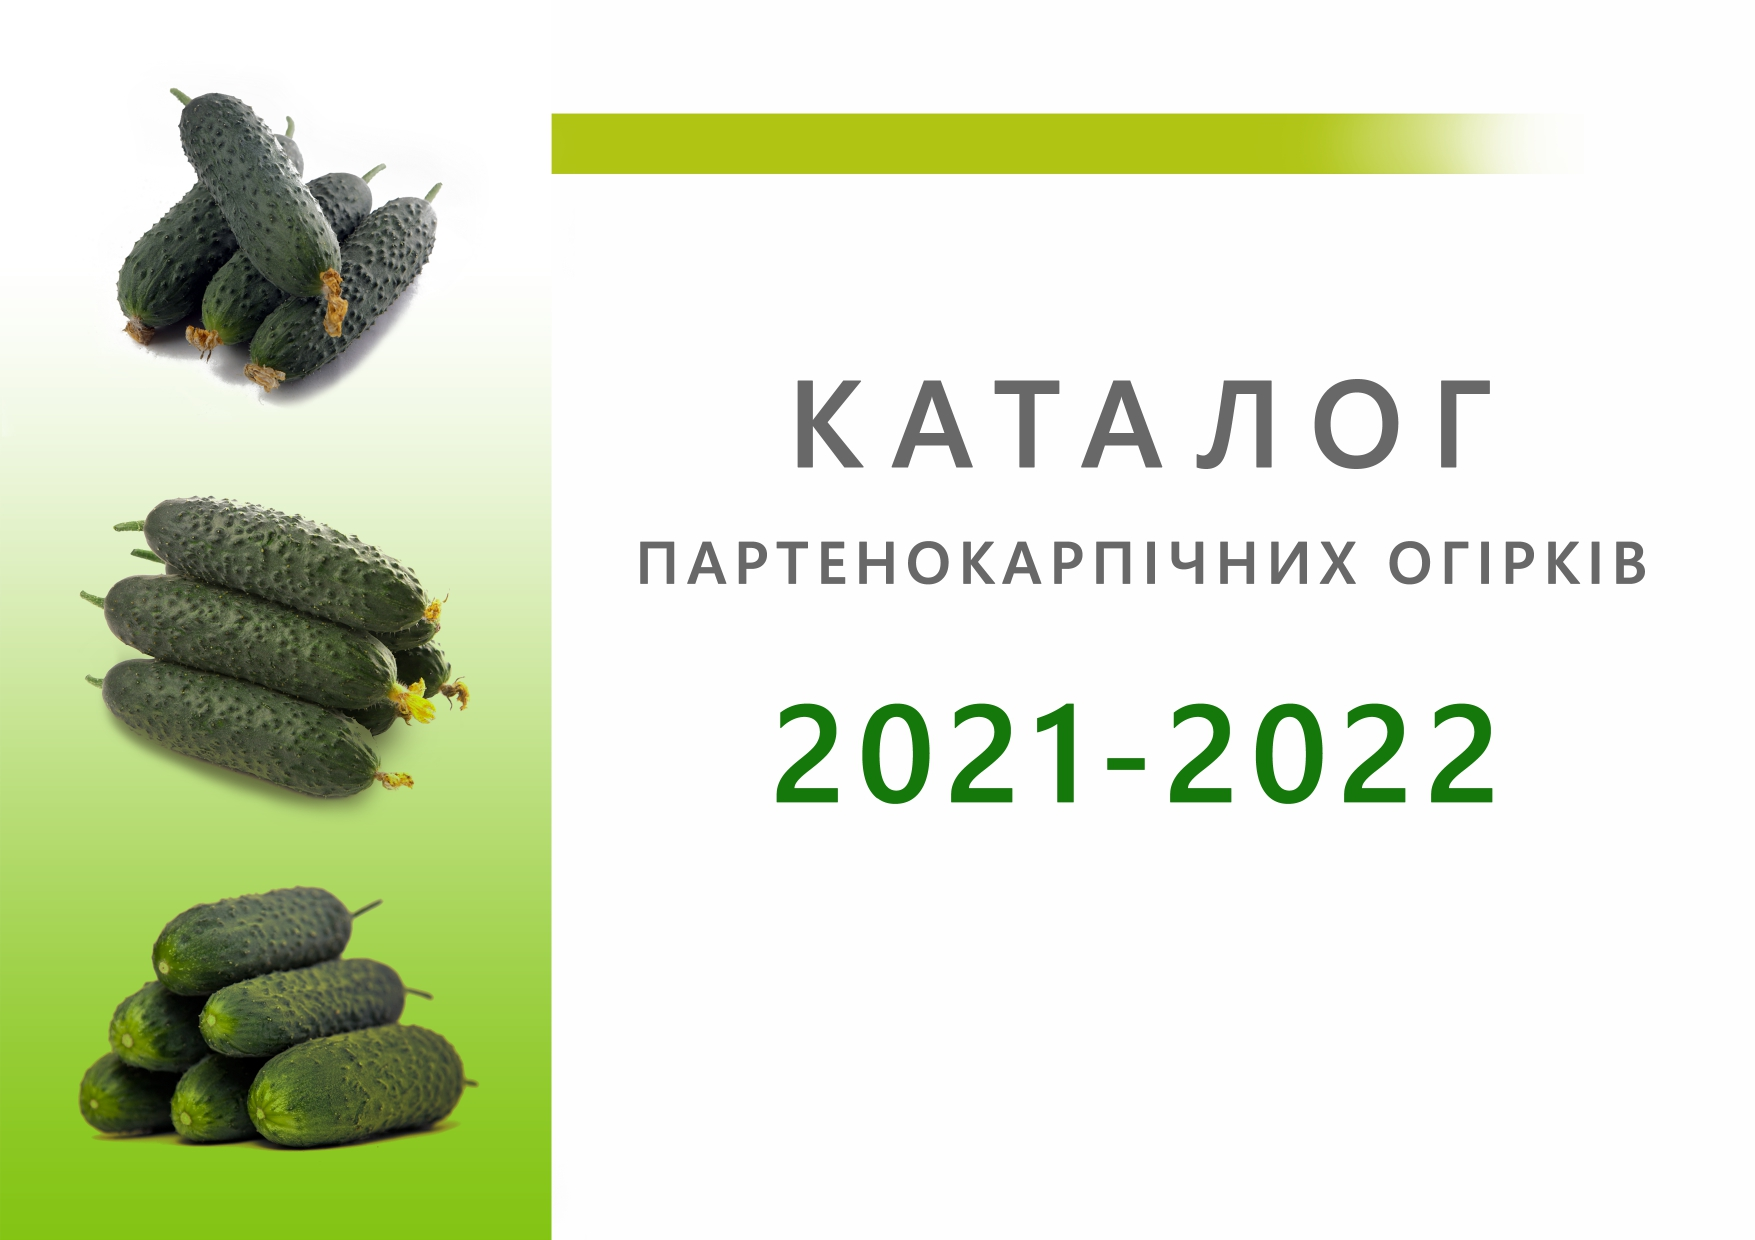
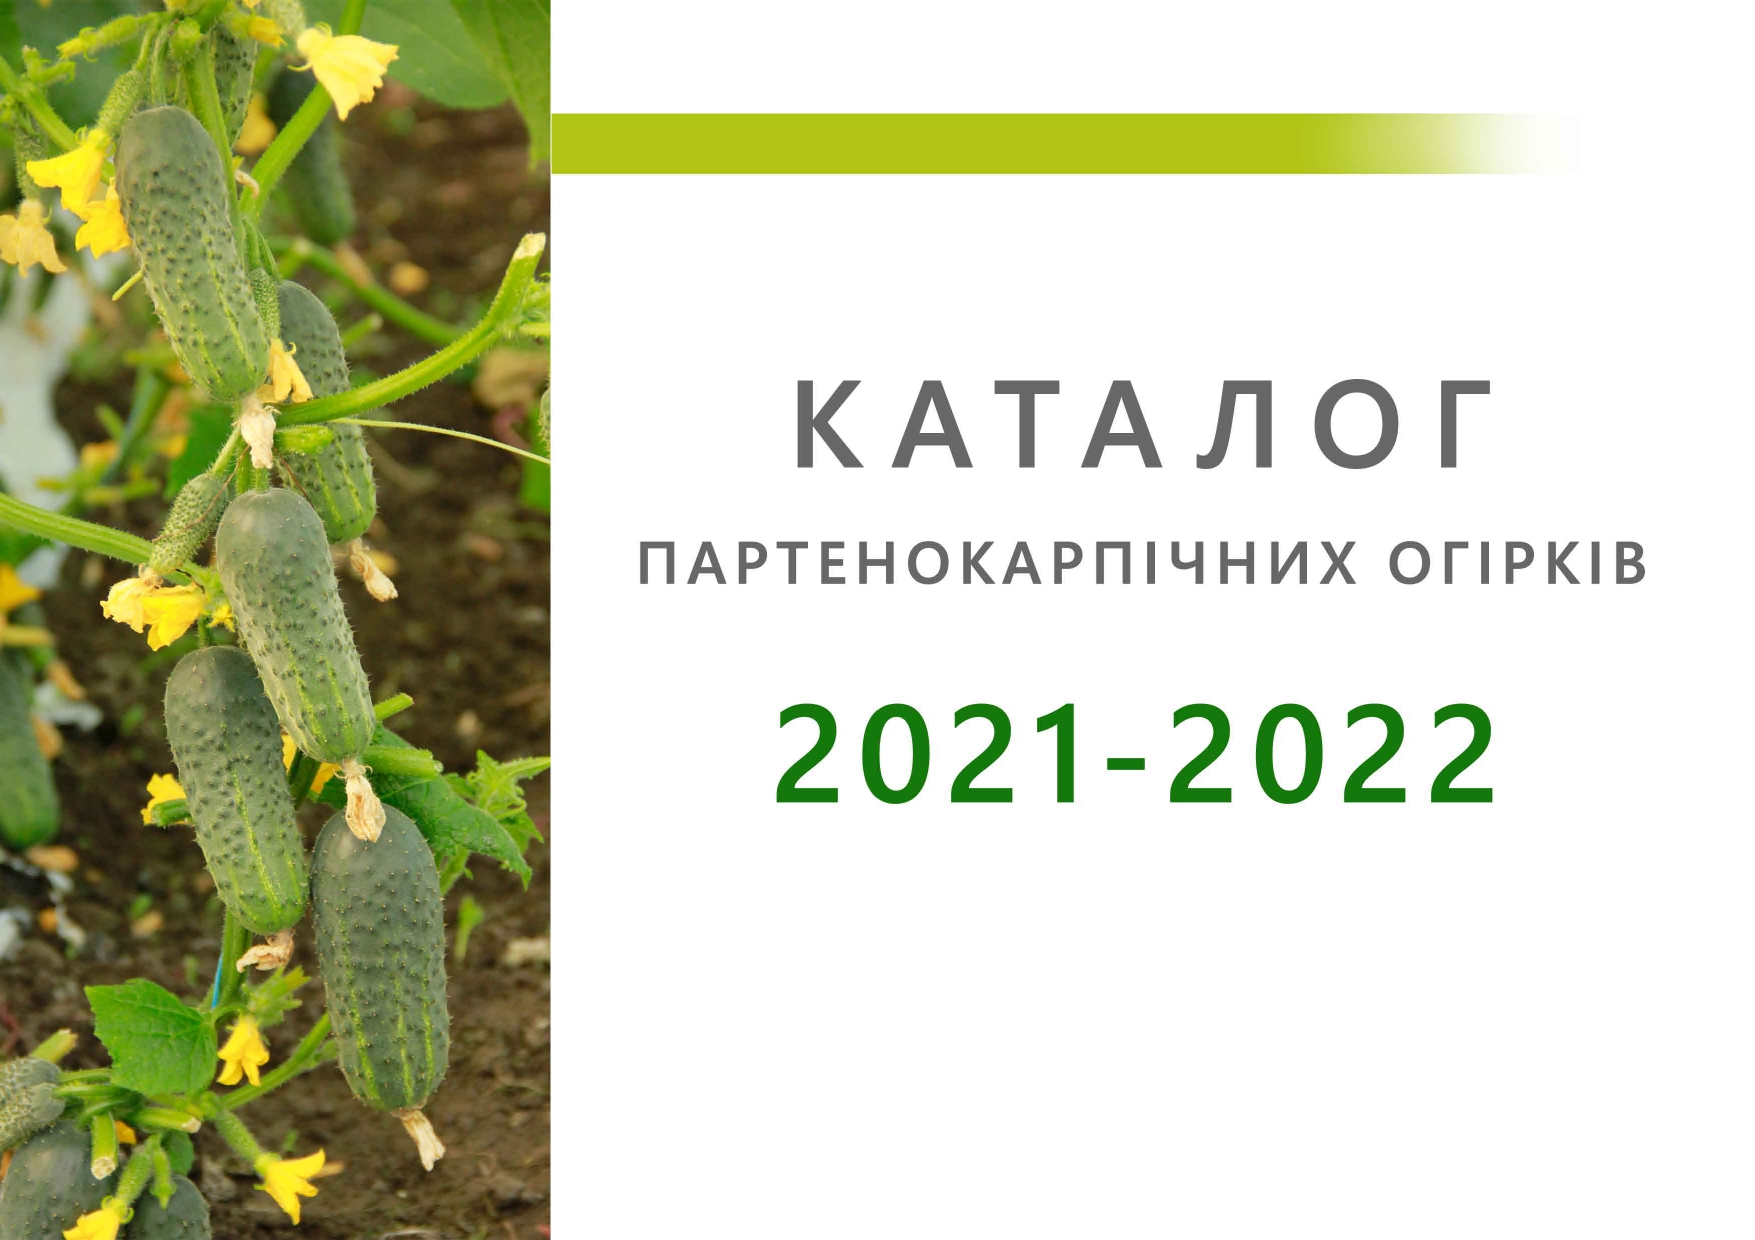
change title img and end img

diff --git a/index.html b/index.html
@@ -92,7 +92,7 @@
 
     <div class="main-slide__item" id="2704">
       <div class="main-slide__item-conteiner">
-        <img class="image" src="./image/2704-min.jpg" alt="PC 2704 F1">
+        <img class="image" src="./image//2704.jpg" alt="PC 2704 F1">
       </div>
     </div>
 
@@ -104,7 +104,7 @@
 
     <div class="main-slide__item" id="price">
       <div class="main-slide__item-conteiner">
-        <img class="image" src="./image/TITULKA2_page-0001.jpg" alt="Price">
+        <img class="image" src="./image/TITULKA(2).jpg" alt="Price">
       </div>
     </div>
   </div>
